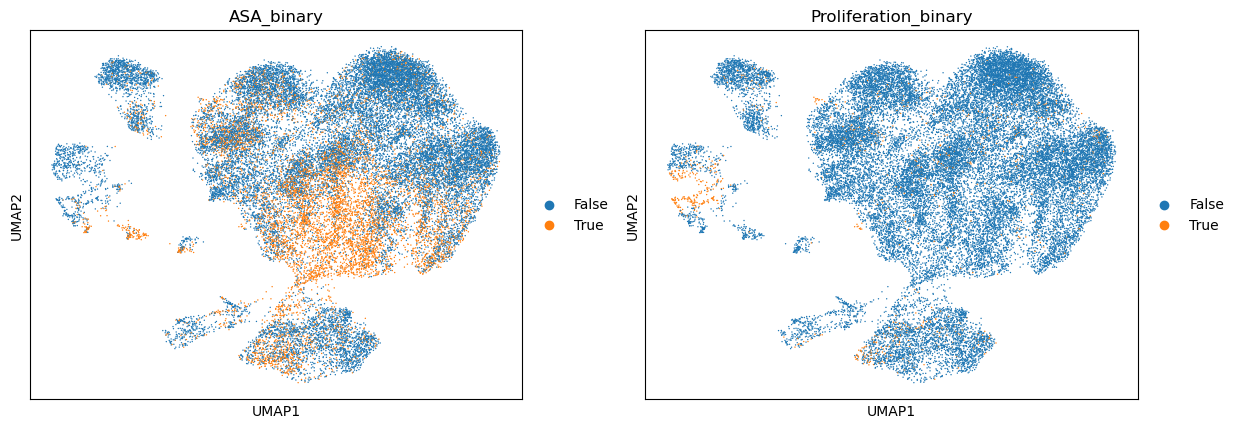
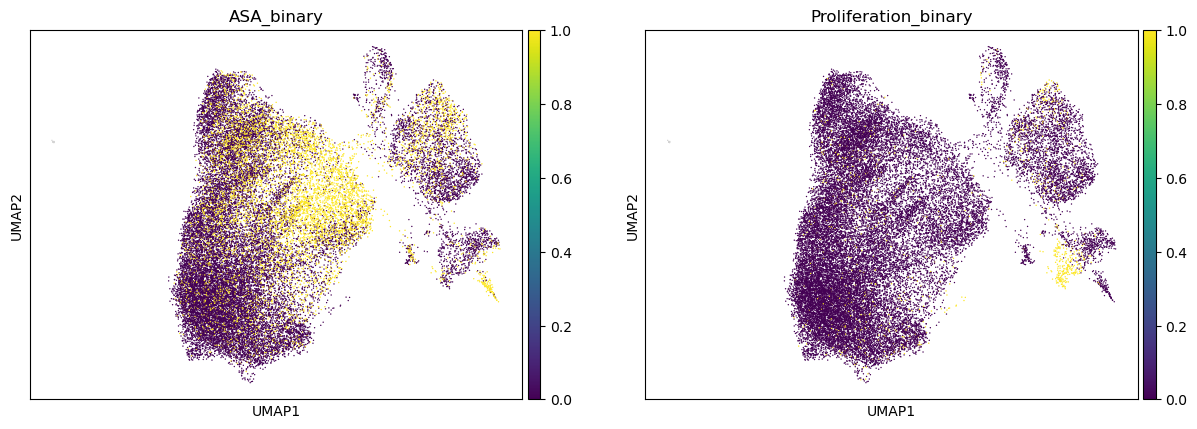
was accidentally performing starcat on non-batch corrected ones

diff --git a/src/annotate.py b/src/annotate.py
@@ -2,14 +2,23 @@ import pandas as pd
 import numpy as np
 import scanpy as sc
 import os
+import matplotlib
+matplotlib.use("Agg")  # non-interactive backend, no GUI pop-ups
 import matplotlib.pyplot as plt
-import sys
+
 import seaborn as sns
 import starcat
 from starcat import starCAT
 import mygene
 import scipy.sparse as sp
 
+# -------------------------------
+# Set global figure directory
+# -------------------------------
+PROJECT_ROOT = os.path.abspath(os.path.join(os.path.dirname(__file__), ".."))
+FIG_DIR = os.path.join(PROJECT_ROOT, "figures")
+os.makedirs(FIG_DIR, exist_ok=True)
+sc.settings.figdir = FIG_DIR
 
 # -------------------------------
 # Step 0: Setup
@@ -41,15 +50,13 @@ print("Clusters computed and stored in adata.obs['leiden']")
 # -------------------------------
 print("Step 3: Finding marker genes per cluster...")
 sc.tl.rank_genes_groups(adata, 'leiden', method='t-test')
+sc.pl.umap(adata, color="leiden", save="_leiden.png")
 sc.pl.rank_genes_groups(adata, n_genes=20, sharey=False, save="_markers.png")
 print("Marker genes identified and plot saved")
 
 # -------------------------------
 # Step 4: Manual annotation (template)
 # -------------------------------
-# Map clusters to cell types after inspecting marker genes.
-# Update the dictionary below with your annotations.
-
 cluster_annotations = {
     '0': 'T cells',
     '1': 'B cells',
@@ -57,77 +64,46 @@ cluster_annotations = {
     '3': 'Monocytes',
     # Add/modify based on markers
 }
-
 adata.obs['cell_type'] = adata.obs['leiden'].map(cluster_annotations).fillna("Unknown")
 
-#starcat tutorial
-# Run starCAT to compute the usages and scores for the provided data 
+# -------------------------------
+# Step 5: Run starCAT on raw counts
+# -------------------------------
+print("Step 5: Running starCAT...")
 tcat = starCAT(reference='TCAT.V1', cachedir='./cache')
 
 raw_adata = adata.copy()
 raw_adata.X = raw_adata.layers["counts"]
 
+# Map Ensembl IDs → gene symbols
 mg = mygene.MyGeneInfo()
-
 ensembl_ids = [x.split('.')[0] for x in raw_adata.var_names]
 res = mg.querymany(ensembl_ids, scopes="ensembl.gene", fields="symbol", species="human")
 mapping = {r["query"]: r.get("symbol", r["query"]) for r in res}
 raw_adata.var_names = [mapping[x] for x in ensembl_ids]
-# Ensure var_names are strings
 raw_adata.var_names = raw_adata.var_names.astype(str)
-
-# Drop duplicate gene names (keep first)
 raw_adata = raw_adata[:, ~raw_adata.var_names.duplicated()].copy()
 
-# Remove cells with zero overlap genes
+# Drop cells with zero counts
 mask = raw_adata.X.sum(axis=1).A1 > 0 if sp.issparse(raw_adata.X) else raw_adata.X.sum(axis=1) > 0
 raw_adata = raw_adata[mask].copy()
 
+# Run starCAT
 usage, scores = tcat.fit_transform(raw_adata)
 
+# Join results back to the Harmony-integrated adata
+adata.obs = adata.obs.join(usage)
+adata.obs = adata.obs.join(scores)
+
+if "Multinomial_Label" in adata.obs:
+    adata.obs["Multinomial_Label"] = adata.obs["Multinomial_Label"].astype(str)
 
 # -------------------------------
-# Step 5: UMAP on raw counts + starCAT labels
+# Step 6: Plotting (all on Harmony UMAP)
 # -------------------------------
+sc.pl.umap(adata, color="Multinomial_Label", save="_starcat_multinomial.png")
+sc.pl.umap(adata, color="batch", save="_batch.png")
+sc.pl.umap(adata, color=["ASA_binary", "Proliferation_binary"], save="_starcat_binaries.png")
+sc.pl.umap(adata, color=sorted(usage.columns), ncols=3, vmin=0, vmax='p99', save="_starcat_continuous.png")
 
-# Start with raw counts object
-umap_adata = sc.AnnData(
-    X=raw_adata.layers["counts"].copy(),
-    obs=raw_adata.obs.copy(),
-    var=raw_adata.var.copy()
-)
 
-# Normalize and log1p
-sc.pp.normalize_total(umap_adata, target_sum=1e4)
-sc.pp.log1p(umap_adata)
-
-# HVGs
-sc.pp.highly_variable_genes(umap_adata, n_top_genes=3000)
-hvgs = umap_adata.var[umap_adata.var['highly_variable']].index
-umap_adata = umap_adata[:, hvgs].copy()
-
-# PCA
-sc.pp.scale(umap_adata, max_value=10)
-sc.tl.pca(umap_adata)
-
-# Neighbors & UMAP
-sc.pp.neighbors(umap_adata, n_neighbors=10, n_pcs=25)
-sc.tl.umap(umap_adata)
-
-# -------------------------------
-# Step 6: Add starCAT outputs
-# -------------------------------
-
-# Add usage and scores to obs
-umap_adata.obs = umap_adata.obs.join(usage)
-umap_adata.obs = umap_adata.obs.join(scores)
-
-# Ensure multinomial label is string (so scanpy can plot categorical colors)
-if "Multinomial_Label" in umap_adata.obs:
-    umap_adata.obs["Multinomial_Label"] = umap_adata.obs["Multinomial_Label"].astype(str)
-
-# -------------------------------
-# Step 7: Plotting
-# -------------------------------
-sc.pl.umap(umap_adata, color="Multinomial_Label", save="_starcat_multinomial.png")
-sc.pl.umap(umap_adata, color=["ASA_binary", "Proliferation_binary"], save="_starcat_binaries.png")
